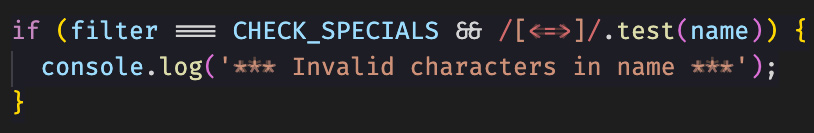
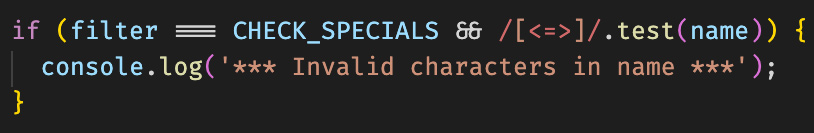
Small updates before making faux release.

diff --git a/README.md b/README.md
@@ -2,9 +2,17 @@
 
 ## Ligatures _only where you want them_
 
-I enjoy using ligature fonts for coding, so that things like arrows (`=>`) look like arrows (`⇒`) and less-than-or-equal signs (`<=`) look like the real thing from math class (`≤`). The problem is that, even with some of the contextual smarts build into ligature fonts like Fira Code, ligatures have a knack of popping up where you don't want them.
+I enjoy using ligature fonts for coding so that symbols like arrows (`=>`) look like arrows (`⇒`) and less-than-or-equal signs (`<=`) look like the real thing from math class (`≤`). The problem is that, even with some of the contextual smarts build into ligature fonts like Fira Code, ligatures have a knack of popping up where you don't want them.
 
-*Ligatures Limited* is designed to make the rendering of ligatures context-dependent. With the defaults settings for this extension, ligatures are only rendered in three contexts: _operators_, _punctuation_, and _comment markers_, plus one special case: `0x` displayed as `0×`, if supported by your chosen font, as a prefix for hexadecimal numbers.
+![Without ligature suppression](https://raw.githubusercontent.com/kshetline/ligatures-limited/master/img/without_suppressed_ligatures.jpg)
+
+![With selective ligature suppression](https://raw.githubusercontent.com/kshetline/ligatures-limited/master/img/with_suppressed_ligatures.jpg)
+
+*Ligatures Limited* is designed to make the rendering of ligatures context-dependent. In the top image, you can see ligatures that don't make sense where they are — in the regex, where three different characters are being checked (not one big two-headed arrow), and the odd formatting of the asterisks in the message string.
+
+The image below shows how those out-of-place ligatures are suppressed by *Ligatures Limited*, replaced with individual characters, while the triple-equals and double-ampersand ligatures are retained.
+
+With the defaults settings for this extension, ligatures are only rendered in three contexts: _operators_, _punctuation_, and _comment markers_, plus one special case: `0x` displayed as `0×`, if supported by your chosen font, as a prefix for hexadecimal numbers.
 
 Ligatures can also be disabled (individual characters shown instead) at the current cursor position (this is the default setting), on all of the current line being edited, or within all of the current selection. This feature can be turned off entirely as well, so that the cursor position or text selection has no effect.
 
